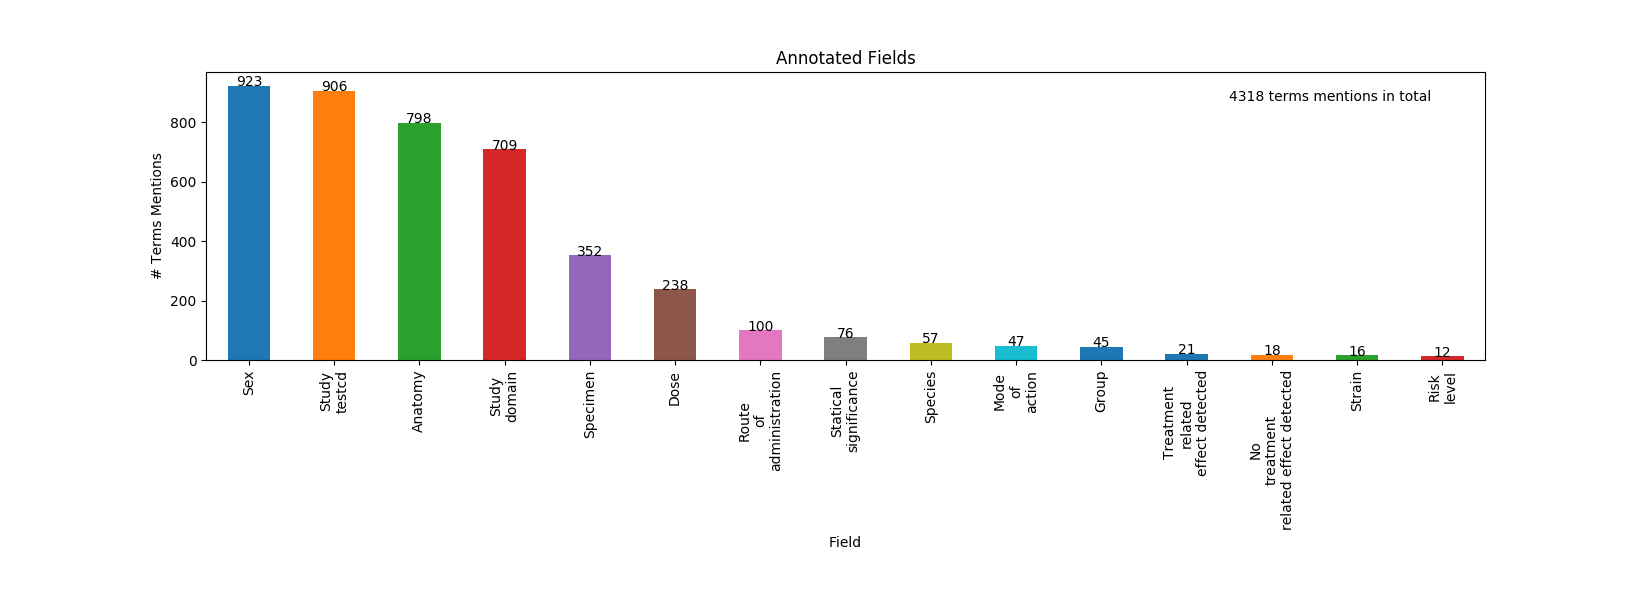
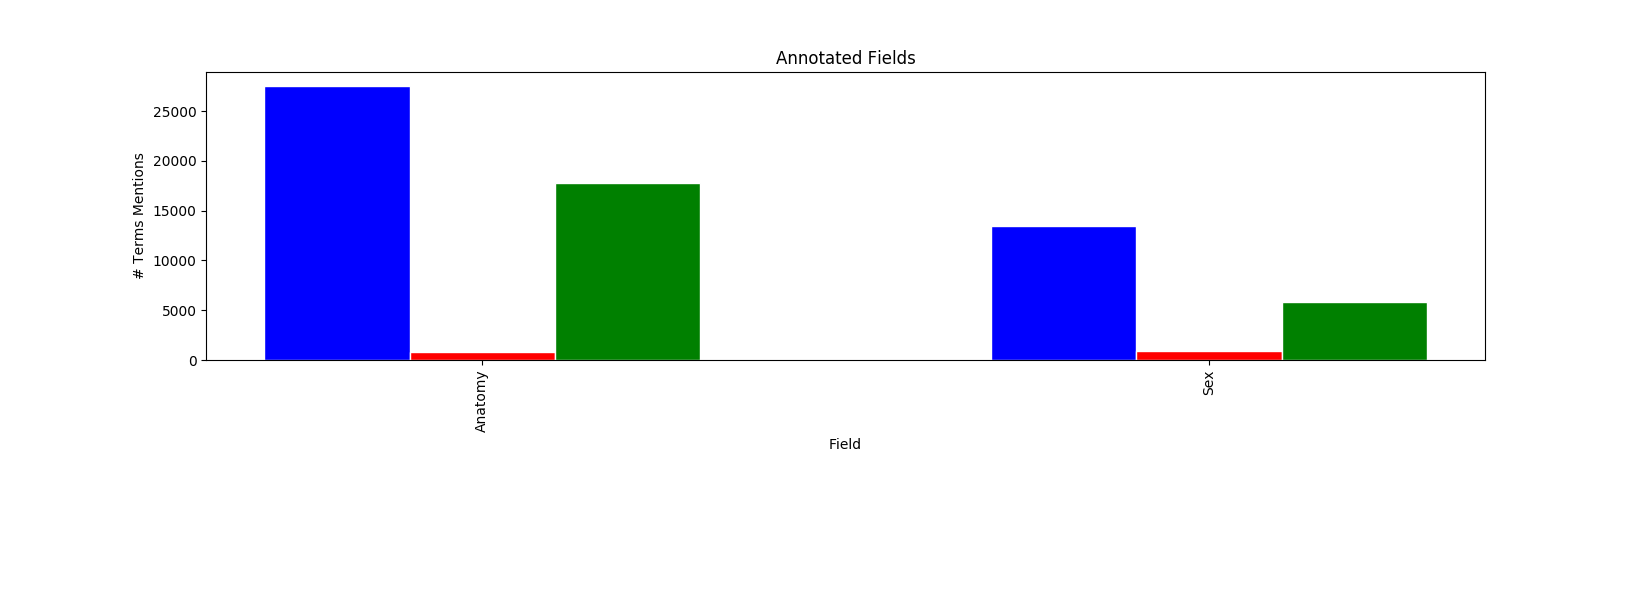
development multicompany comparation

diff --git a/plot_multiefpia_comparation.py b/plot_multiefpia_comparation.py
@@ -1,0 +1,180 @@
+'''
+Created on Jan 16, 2019
+
+To run the file 
+python plot.py -f1 servier/total_annotation_measurement.dat -f2 servier/documents_annotation_measurement.dat -outputDir servier
+
+@author: jcorvi
+'''
+import pandas 
+import sys
+import os
+import argparse
+import matplotlib.pyplot as plt
+import logging
+import numpy as np
+
+parser=argparse.ArgumentParser()
+parser.add_argument('-f1', help='Total annotation measurement files')
+parser.add_argument('-f2', help='Total documents annotation measurement files')
+parser.add_argument('-outputDir', help='Output Dir, could be the EFPIA partner name')
+args=parser.parse_args()
+parameters={}
+if __name__ == '__main__':
+    import plot_multiefpia_comparation
+    parameters = plot_multiefpia_comparation.ReadParameters(args)
+    
+    total_annotation_measurement = parameters['total_annotation_measurement'].split(",")
+    documents_annotation_measurement = parameters['documents_annotation_measurement'].split(",")
+    if(len(total_annotation_measurement)!=len(documents_annotation_measurement)):
+        logging.error("The numbers of total field and document files have to be the same.")
+       
+    #for path1,path2 in zip(total_annotation_measurement,documents_annotation_measurement):
+    plot_multiefpia_comparation.plot_annotations_set_measurement(total_annotation_measurement,['Bayer','Sanofi','Servier'],['b','r','g'])
+    #plot_multiefpia_comparation.plot_annotations_study_domain(documents_annotation_measurement)
+       
+def ReadParameters(args):
+    """Read the parameters of the module, see --help"""
+    missing_parameter=False
+    if(args.f1!=None):
+        parameters['total_annotation_measurement']=args.f1
+    else:
+        missing_parameter=True
+        logging.error("Please set the Total annotation measurement file, for more information --help ")
+    if(args.f2!=None):
+        parameters['documents_annotation_measurement']=args.f2
+    else:
+        missing_parameter=True
+        logging.error("Please set the Total documents annotation measurement file, for more information --help ")
+    if(args.outputDir!=None):
+        parameters['outputDir']=args.outputDir + '/'
+        if not os.path.exists(parameters['outputDir']):
+            os.makedirs(parameters['outputDir'])
+    else:
+        missing_parameter=True
+        logging.error("Please set the Output directory for the plots, for more information --help ")
+        
+    if(missing_parameter):
+        logging.error("Please set the correct parameters before continue --help ")
+        sys.exit(1)
+        
+    return parameters    
+
+
+    
+def plot_annotations_set_measurement(annotation_measurement_paths,efpias,colors):
+    
+    list_to_plot = []
+    for path1,efpia,c in zip(annotation_measurement_paths,efpias,colors):
+        values=[]
+        df = pandas.read_csv(path1, sep='\t', header=None)
+        df = df[df.columns[[0,1,2]]]
+        df_to_plot = df[(df[0]!='SENTENCES_TEXT') & (df[1]!='ORIGINAL MARKUPS') & (df[0]!='TREATMENT_RELATED_EFFECT_DETECTED_SENTENCE') & (df[0]!='NO_TREATMENT_RELATED_EFFECT_DETECTED_SENTENCE')]
+        df_grouped = df_to_plot[(df_to_plot[1]=='SEX') | (df_to_plot[1]=='MANIFESTATION_OF_FINDING') | (df_to_plot[1]=='STUDY_TESTCD') | (df_to_plot[1]=='STUDY_DOMAIN') | (df_to_plot[1]=='RISK_LEVEL')].groupby([1])[2].agg('sum').reset_index()
+        df_default = df[(df[1]=='DEFAULT') & (df[0]!='SENTENCES_TEXT') & (df[0]!='TREATMENT_RELATED_EFFECT_DETECTED_SENTENCE') & (df[0]!='NO_TREATMENT_RELATED_EFFECT_DETECTED_SENTENCE')]
+        df_default = df_default.drop([1], axis=1)
+        df_default.columns = [1, 2]
+        frames = [df_grouped, df_default]
+        df_to_plot = pandas.concat(frames)
+        df_to_plot.columns=['key','value']
+        
+        #Get Specific fields for plot
+        xdata=['Anatomy','Study Domain', 'Sex', 'Study Test', 'Specimen', 'Route of Administration', 'Species', 'Dose', 'Group', 'Manifestation of Finding', 'Mode of Action',  \
+               'Treatment Related Term', 'Strain','No Treatment Related Term',  'Statical Significance', 'Risk Level' ]
+        values.append(getFieldValue(df_to_plot, 'ANATOMY'))
+        values.append(getFieldValue(df_to_plot, 'STUDY_DOMAIN'))
+        values.append(getFieldValue(df_to_plot, 'SEX'))
+        values.append(getFieldValue(df_to_plot, 'STUDY_TESTCD'))
+        values.append(getFieldValue(df_to_plot, 'SPECIMEN'))
+        values.append(getFieldValue(df_to_plot, 'ROUTE_OF_ADMINISTRATION'))
+        values.append(getFieldValue(df_to_plot, 'SPECIES'))
+        values.append(getFieldValue(df_to_plot, 'DOSE'))
+        values.append(getFieldValue(df_to_plot, 'GROUP'))
+        values.append(getFieldValue(df_to_plot, 'MANIFESTATION_OF_FINDING'))
+        values.append(getFieldValue(df_to_plot, 'MODE_OF_ACTION'))
+        values.append(getFieldValue(df_to_plot, 'TREATMENT_RELATED_EFFECT_DETECTED'))
+        values.append(getFieldValue(df_to_plot, 'STRAIN'))
+        values.append(getFieldValue(df_to_plot, 'NO_TREATMENT_RELATED_EFFECT_DETECTED'))
+        values.append(getFieldValue(df_to_plot, 'STATICAL_SIGNIFICANCE'))
+        values.append(getFieldValue(df_to_plot, 'RISK_LEVEL'))
+        list_to_plot.append([values, efpia, c])
+
+        
+        
+        '''df_to_plot['key'] = [  el.replace('_',' ').replace(' ','\n',2).capitalize() for el in df_to_plot['key']]
+        total = df_to_plot['value'].sum()'''
+    barWidth=0.2    
+    in_ = 0    
+    for row in list_to_plot:
+        values = row[0]
+        label  = row[1]
+        color = row[2]
+        if(in_==0):
+            r1 = list(np.arange(len(values)))
+            in_=1
+        else:    
+            r1 = [x + barWidth for x in r1]
+        plt.bar(r1, values, color=color, width=barWidth, edgecolor='white', label=label)
+    
+    
+    plt.xticks([r + barWidth for r in range(len(values))], xdata, rotation=90 )
+    '''        
+    xdata=df_to_plot[1]
+    cliente1 = list(df_to_plot[2])
+    cliente2 = list(df_to_plot[2])
+    cliente3 = list(df_to_plot[2])
+    
+    
+    
+    r1 = np.arange(len(cliente1))
+    r2 = [x + barWidth for x in r1]
+    r3 = [x + barWidth for x in r2]
+    
+    plt.bar(r1, cliente1, color='b', width=barWidth, edgecolor='white', label='Bayer')
+    plt.bar(r2, cliente2, color='g', width=barWidth, edgecolor='white', label='Sanofi')
+    plt.bar(r3, cliente3, color='r', width=barWidth, edgecolor='white', label='Servier')
+    '''
+    
+    plt.legend()
+    plt.xlabel("Field")
+    plt.ylabel("# Terms Mentions")
+    plt.title('Annotated Fields')
+    plt.gcf().subplots_adjust(bottom=0.40)
+    plt.gcf().set_size_inches(16.5, 6.0)
+    plt.savefig(parameters['outputDir']+ 'all_set_annotations.png')
+    plt.show()
+    plt.gcf().clear()
+
+def getFieldValue(df, fieldName):
+    df_ = df[df['key']==fieldName]
+    if(len(df_)!=0):
+        v = df_.get_value(df_.index[0],'value')
+    else:
+        v = 0
+    return v
+    
+
+def plot_annotations_study_domain(annotation_measurement_path):
+    df = pandas.read_csv(annotation_measurement_path, sep='\t', header=None)
+    df = df[df.columns[[0,1,2]]]
+    df_to_plot = df[(df[1]=='STUDY_DOMAIN')]
+    df_to_plot[3] = [el.replace('_DOMAIN','').replace('_','\n').capitalize() for el in df_to_plot[0]]
+    df_to_plot = df_to_plot.sort_values(by=[2],ascending=[0])
+    total = df_to_plot[2].sum()
+    ax = df_to_plot.plot.bar(x=3, y=2 , legend=False)
+    ax.annotate(str(total) + ' study domain terms mentions in total', xy=(0.70,0.90),xycoords='axes fraction', fontsize=10)
+    for i in ax.patches:
+        ax.text(i.get_x() + i.get_width()/2., i.get_height()-1, str(i.get_height()), fontsize=10, color='black',ha='center')
+    plt.title('Annotated Study Domains')
+    plt.xlabel("Study Domain")
+    plt.xticks(rotation=90)
+    plt.ylabel("# Terms Mentions")
+    plt.gcf().subplots_adjust(bottom=0.40)
+    plt.gcf().set_size_inches(16.5, 6.0)
+    plt.savefig(parameters['outputDir']+'study_domain.png')
+    #plt.show()
+    plt.gcf().clear()
+
+    
+
+    
